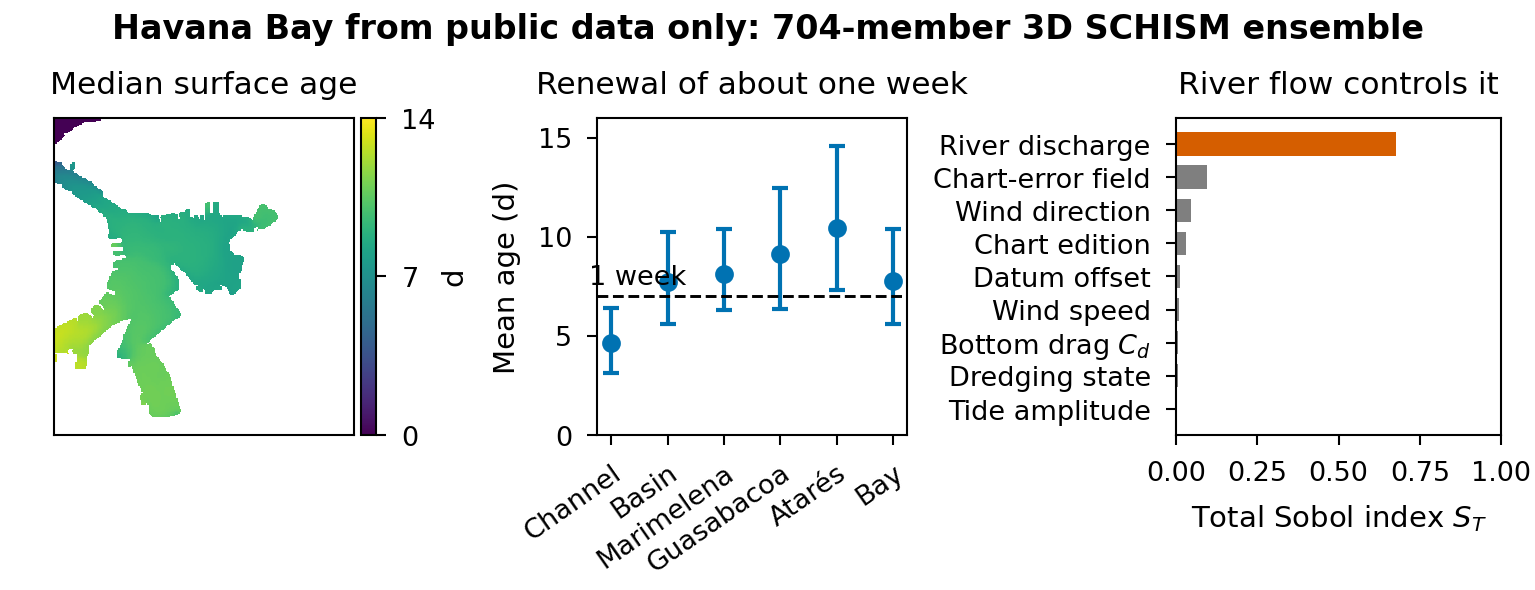
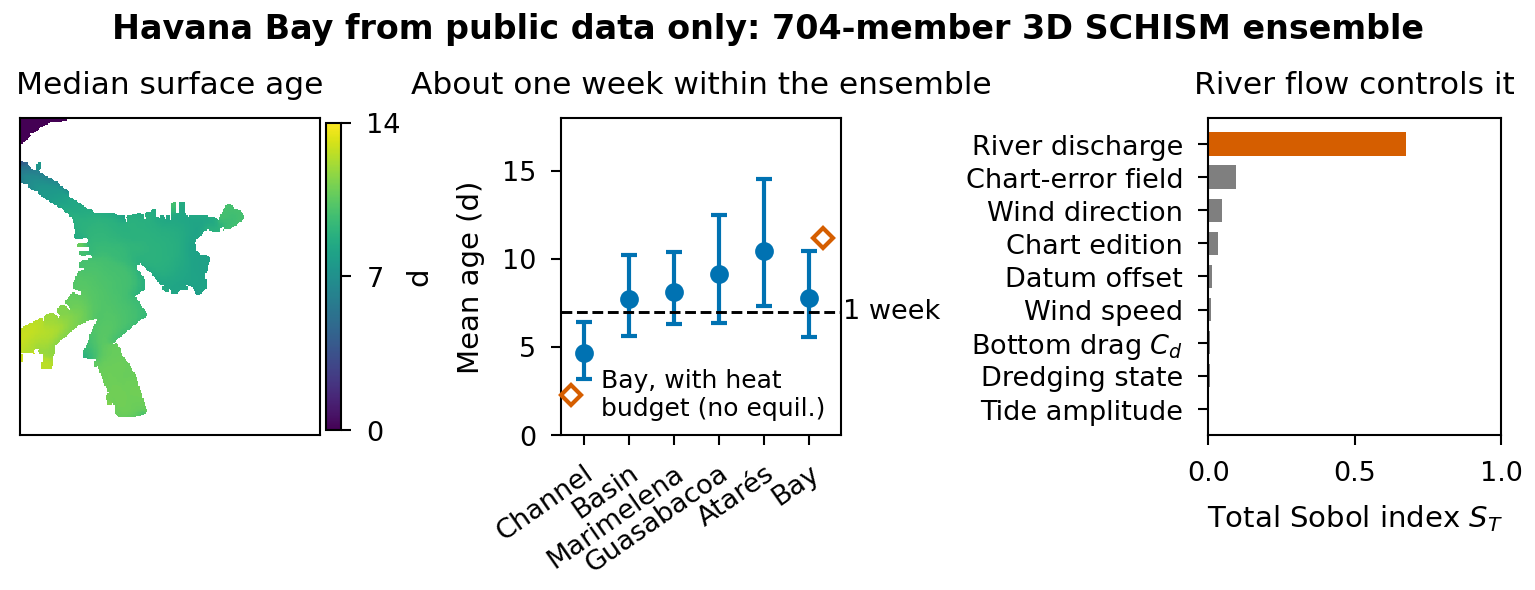
Resumen grafico: titulo dentro del conjunto, marca de m0005 y etiqueta de 1 semana fuera del eje
Claude-Session: https://claude.ai/code/session_011ZQy6j6faxb4dHyc5rKgZH

diff --git a/scripts/figuras_resultados.py b/scripts/figuras_resultados.py
@@ -332,9 +332,12 @@ def fig_resumen(dir=CONJUNTO, salida=SALIDA):
     fig.colorbar(im, ax=a, fraction=0.05, pad=0.02, ticks=[0, 7, 14]).set_label("d", labelpad=1)
     x = np.arange(len(filas)); med, lo, hi = (np.array([float(r[k]) for r in filas]) for k in ("p50", "p5", "p95"))
     b.errorbar(x, med, yerr=[med - lo, hi - med], fmt="o", color=AZUL, ms=3.5, capsize=2, lw=1)
-    b.axhline(7, color=NEGRO, ls="--", lw=0.7); b.text(-0.4, 7.3, "1 week", ha="left", va="bottom", fontsize=6.5)
+    b.axhline(7, color=NEGRO, ls="--", lw=0.7); b.annotate("1 week", xy=(1.01, 7), xycoords=("axes fraction", "data"), ha="left", va="center", fontsize=6.5, annotation_clip=False)
+    e5 = json.loads((RAIZ / "runs" / "robustez" / "m0005" / "resumen.json").read_text())["edad_media_d_bahia"]   # calor + SST OISST, fuera del conjunto
+    b.plot(len(x) - 1 + 0.3, e5, "D", mfc="white", mec=BERMELLON, ms=3.5, mew=1, label="Bay, with heat\nbudget (no equil.)")
+    b.legend(frameon=False, loc="lower right", fontsize=6, handletextpad=0.2, borderaxespad=0.2)
     b.set_xticks(x); b.set_xticklabels(["Channel", "Basin", "Marimelena", "Guasabacoa", "Atarés", "Bay"][:len(x)], rotation=35, ha="right", rotation_mode="anchor", fontsize=6.5)
-    b.set_ylim(0, 16); b.set_ylabel("Mean age (d)"); b.set_title("Renewal of about one week")
+    b.set_ylim(0, 18); b.set_xlim(-0.5, len(x) - 0.3); b.set_ylabel("Mean age (d)"); b.set_title("About one week within the ensemble")
     y = np.arange(len(sob)); st = np.array([float(r["ST"]) for r in sob])
     c.barh(y, st, color=[BERMELLON if r["parametro"] == "qfac" else GRIS for r in sob], height=0.7)
     c.set_yticks(y); c.set_yticklabels([PARAM.get(r["parametro"], r["parametro"]) for r in sob], fontsize=6.5)

diff --git a/docs/articulo/figuras.md b/docs/articulo/figuras.md
@@ -19,7 +19,7 @@ Las de `docs/figuras/` son de trabajo (en español) y no van al artículo tal cu
 | S2 | Robustez de la densidad (k-ε, 32 niveles, mezcla × 10, flujo de calor) | `runs/robustez/m000*/resumen.npz` | **hecha (9-nov)**: `fig_robustness.png/.pdf`, **90 × 62 mm** (una columna); ya dibuja m0005 (calor con SST OISST, 11,2 d, sin equilibrio) |
 | S3 | (si sale) caudal por el canal con salida cada 10 min frente a cada 4 h | `cluster/hf_caudal.sh` + `diag_caudal.py --hf` | **no sale (13-nov)**: el caudal bruto tiene ráfagas intermitentes de origen no aclarado (`cluster/hf_caudal_diag.txt`); no es un resultado. Quitar del texto; como mucho una frase en limitaciones |
 | S4 | Control de los sondeos digitalizados: 1879 (ed. 1889) por profundidad y posiciones 1879 frente a 1887 sobre la carta | `datos/batimetria/sondeos/*.csv`, `vistas/reg_1889_s3.png`; `scripts/figura_sondeos.py` | ✅ **hecha (13-nov)**: `figS_soundings.png/.pdf`, 190 × 88 mm, inglés, UTM 17N (carta reproyectada por vecino más cercano). Los sondeos de 1887 se dibujan sobre la carta de 1889 (misma plancha) |
-| RG | Resumen gráfico (Elsevier: ≥ 1328 × 531 px, legible a 13 × 5 cm) | `resultados/conjunto/`; `figuras_resultados.py resumen` | ✅ **hecho (13-nov)**: `graphical_abstract.png/.pdf`, 1535 × 590 px (13 × 5 cm a 300 ppp): edad mediana en superficie, edad por zona (P5–P95) y S_T de Sobol |
+| RG | Resumen gráfico (Elsevier: ≥ 1328 × 531 px, legible a 13 × 5 cm) | `resultados/conjunto/`; `figuras_resultados.py resumen` | ✅ **hecho (13-nov)**: `graphical_abstract.png/.pdf`, 1535 × 590 px (13 × 5 cm a 300 ppp): edad mediana en superficie, edad por zona (P5–P95) y S_T de Sobol. Retocado 13-nov (tarde): título «About one week within the ensemble», marca de m0005 (bahía con balance de calor, 11,2 d, sin equilibrio) y «1 week» fuera del eje |
 
 **Numeración:** los documentos del chat del artículo no coinciden entre sí (en `REQUISITOS_FIGURAS.md` el mecanismo es la fig. 5; en la lista de pendientes la fig. 5 es la de P(edad > umbral)). Los archivos de resultados llevan nombre descriptivo (`fig_mechanism`, `fig_sentinel2`…) y no el número; las figuras 1–3 conservan `fig01_map`, `fig02_bathymetry`, `fig03_mesh`.
 
